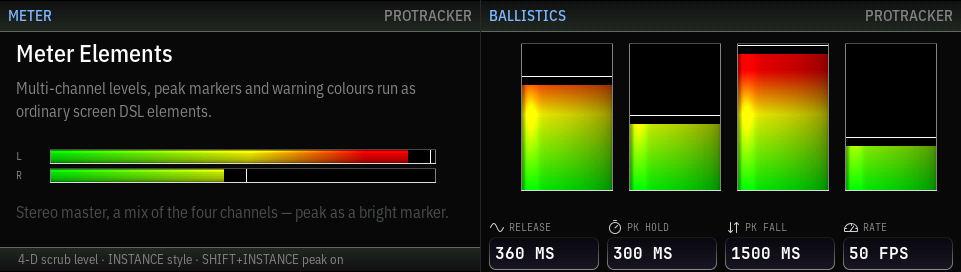
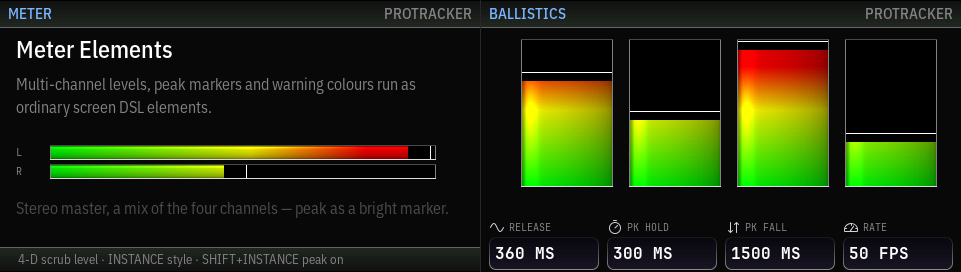
Chrome diet, header round: 28px band with metric text centering
Bench decision 2026-07-23: the header band tightens from 32 to 28px
(captionPixelSize x 2 - 2; caption stays 15px) on the debossed form.
Together with the footer diet the chrome now hands +9px per screen to
content.

The bench caught the text riding +1.5px low at 28 (estimated -2 by eye,
measured -1.5): the static titleHeaderTextY/statusHeaderTextY formulas
only knew the caption size, not the band height — at 32 that coincided
with centered, at 28 it broke. Header text now centers its measured cap
band (proportional captions probe "H", the status line probes the mono
figure band) on the band's mid-height; measured offset after the fix is
-0.5px on both forms, identical to the approved 32px state. The static
formulas remain as the renderer-less fallback.

Geometry probes across layout/DSL/selection tests follow the 4px shift;
full gallery regenerated; 387 tests green.

diff --git a/Sources/KontrolSurfaceKit2/ScreenLayout.swift b/Sources/KontrolSurfaceKit2/ScreenLayout.swift
@@ -60,17 +60,20 @@ public enum MK2ScreenHeader: Sendable {
 
     /// The band height derives from the caption style the header text is set in,
     /// so tuning `MK2ScreenChromeTypography.captionPixelSize` resizes the header.
-    /// A leading subtitle adds a second text line.
+    /// A leading subtitle adds a second text line. History: `× 2 + 2` (32px)
+    /// until 2026-07-23 — the chrome-diet header round tightened the band to
+    /// the MASCHINE-factory-UI proportion; text stays centered because the
+    /// header centers its cap band metrically, not by formula.
     public func height(for typography: MK2ScreenChromeTypography = MK2ScreenChromeTypography()) -> Int {
         switch self {
             case .none:
                 return 0
             case let .title(_, subtitle, alignment):
-                let base = typography.captionPixelSize * 2 + 2
+                let base = typography.captionPixelSize * 2 - 2
                 guard subtitle != nil, alignment == .leading else { return base }
                 return base + typography.captionPixelSize + 2
             case .status:
-                return typography.captionPixelSize * 2 + 2
+                return typography.captionPixelSize * 2 - 2
         }
     }
 }
@@ -324,7 +327,8 @@ public struct MK2RegularScreenChrome: Sendable {
             case .none:
                 return
             case let .title(title, subtitle, subtitleAlignment):
-                let lineY = Self.titleHeaderTextY(for: typography)
+                let lines = (subtitle != nil && subtitleAlignment == .leading) ? 2 : 1
+                let lineY = captionLineY(renderer: renderer, lines: lines) ?? Self.titleHeaderTextY(for: typography)
                 drawHeaderBackdrop(into: &frame)
                 drawCaption(title, into: &frame, renderer: renderer, x: 8, y: lineY, color: colors.accent, maxWidth: 220)
                 guard let subtitle else { return }
@@ -336,8 +340,38 @@ public struct MK2RegularScreenChrome: Sendable {
                 }
             case let .status(items):
                 drawHeaderBackdrop(into: &frame)
-                MK2StatusLine(y: Self.statusHeaderTextY(for: typography), items: items).draw(into: &frame)
+                let statusY = statusLineY(renderer: renderer) ?? Self.statusHeaderTextY(for: typography)
+                MK2StatusLine(y: statusY, items: items).draw(into: &frame)
         }
+    }
+
+    /// Header text centers its measured cap band on the band's mid-height.
+    /// The static formulas below only know the caption size, so any change to
+    /// the band height silently pushed the text off-center — bench-caught at
+    /// the 28px tightening; the same box-vs-ink trap as icons and well
+    /// values. The static forms remain as the renderer-less fallback.
+    private func captionLineY(renderer: FreeTypeTextRenderer?, lines: Int) -> Int? {
+        guard let renderer, let headerRect = layout.headerRect else { return nil }
+        let style = MK2HIG.textStyle(
+            weight: MK2HIG.Fonts.captionWeight,
+            pixelSize: typography.captionPixelSize,
+            color: 0xffff
+        )
+        guard let metrics = try? renderer.metrics(style: style),
+              let cap = try? renderer.inkExtent("H", style: style),
+              cap.height > 0 else { return nil }
+        let blockHeight = (lines - 1) * (typography.captionPixelSize + 2) + cap.height
+        let inkTop = headerRect.y + (headerRect.height - blockHeight) / 2
+        return inkTop - metrics.ascender - cap.top
+    }
+
+    private func statusLineY(renderer: FreeTypeTextRenderer?) -> Int? {
+        guard let renderer, let headerRect = layout.headerRect else { return nil }
+        let font = SurfaceFont.grid
+        guard let figures = try? renderer.inkExtent("0", style: font.measurementStyle),
+              figures.height > 0 else { return nil }
+        let inkTop = headerRect.y + (headerRect.height - figures.height) / 2
+        return inkTop - font.ascent - figures.top
     }
 
     private func drawHeaderBackdrop(into frame: inout MK2PixelFrame) {

diff --git a/Tests/KompleteKontrolTests/ScreenLayoutTests.swift b/Tests/KompleteKontrolTests/ScreenLayoutTests.swift
@@ -12,14 +12,14 @@ struct ScreenLayoutTests {
         #expect(headerless.contentRect == MK2PixelRect(x: 8, y: 8, width: 464, height: 256))
 
         let titled = MK2ScreenLayout.regular(header: .title(title: "T"))
-        #expect(titled.headerRect == MK2PixelRect(x: 0, y: 0, width: 480, height: 32))
-        #expect(titled.contentRect.y == 37)
+        #expect(titled.headerRect == MK2PixelRect(x: 0, y: 0, width: 480, height: 28))
+        #expect(titled.contentRect.y == 33)
     }
 
     @Test("Header and hint footer heights derive from the chrome typography")
     func chromeBandHeightsDeriveFromTypography() {
         let defaults = MK2ScreenLayout.regular(header: .title(title: "T"), footer: .hint("h"))
-        #expect(defaults.headerRect?.height == 32)
+        #expect(defaults.headerRect?.height == 28)
         #expect(defaults.footerRect?.height == 25)
 
         let compact = MK2ScreenLayout.regular(
@@ -27,8 +27,8 @@ struct ScreenLayoutTests {
             footer: .hint("h"),
             typography: MK2ScreenChromeTypography(captionPixelSize: 12, footnotePixelSize: 12)
         )
-        #expect(compact.headerRect?.height == 26)
-        #expect(compact.contentRect.y == 31)
+        #expect(compact.headerRect?.height == 22)
+        #expect(compact.contentRect.y == 27)
         #expect(compact.footerRect?.height == 24)
     }
 
@@ -49,8 +49,8 @@ struct ScreenLayoutTests {
     @Test("Progress bar hugs the header bottom or the top edge")
     func progressBarTopPlacement() {
         let withHeader = MK2ScreenLayout.regular(header: .title(title: "T"), progress: .top)
-        #expect(withHeader.progressRect == MK2PixelRect(x: 0, y: 32, width: 480, height: 2))
-        #expect(withHeader.contentRect.y == 37)
+        #expect(withHeader.progressRect == MK2PixelRect(x: 0, y: 28, width: 480, height: 2))
+        #expect(withHeader.contentRect.y == 33)
 
         let withoutHeader = MK2ScreenLayout.regular(progress: .top)
         #expect(withoutHeader.progressRect == MK2PixelRect(x: 0, y: 0, width: 480, height: 2))
@@ -81,11 +81,11 @@ struct ScreenLayoutTests {
             Int((color >> 11) & 0x1f) + Int((color >> 5) & 0x3f) + Int(color & 0x1f)
         }
 
-        // Header band 0..31 is debossed (2026-07-23): shadow edge at the top,
+        // Header band 0..27 is debossed (2026-07-23): shadow edge at the top,
         // gradient rising toward the lit edge that faces the content.
         #expect(frame[300, 0] == MK2HIG.Chrome.headerBottomLine)
-        #expect(luminance(frame[300, 2]) < luminance(frame[300, 29]))
-        #expect(frame[300, 31] == MK2HIG.Chrome.headerTopLine)
+        #expect(luminance(frame[300, 2]) < luminance(frame[300, 25]))
+        #expect(frame[300, 27] == MK2HIG.Chrome.headerTopLine)
         // Footer band 215..271 gets the same treatment.
         #expect(frame[300, 215] == MK2HIG.Chrome.headerTopLine)
         #expect(luminance(frame[300, 218]) > luminance(frame[300, 268]))
@@ -100,7 +100,7 @@ struct ScreenLayoutTests {
         ) {}.build(renderer: try? FreeTypeTextRenderer())
 
         let frame = result.screen.frame
-        let barRect = MK2PixelRect(x: 0, y: 32, width: 480, height: 2)
+        let barRect = MK2PixelRect(x: 0, y: 28, width: 480, height: 2)
         var fillCount = 0
         var trackCount = 0
         var distinctFillColors = Set<UInt16>()
@@ -119,7 +119,7 @@ struct ScreenLayoutTests {
         #expect(trackCount == 240 * 2)
         // The fill ramps from fillStart to fillEnd instead of being one flat color.
         #expect(distinctFillColors.count > 8)
-        #expect(frame[0, 32] == MK2HIG.Chrome.progressFillStart)
-        #expect(frame[239, 32] == MK2HIG.Chrome.progressFillEnd)
+        #expect(frame[0, 28] == MK2HIG.Chrome.progressFillStart)
+        #expect(frame[239, 28] == MK2HIG.Chrome.progressFillEnd)
     }
 }

diff --git a/Tests/KompleteKontrolTests/SelectionViewTests.swift b/Tests/KompleteKontrolTests/SelectionViewTests.swift
@@ -119,12 +119,12 @@ struct SelectionViewTests {
         let filtered = MK2SelectionLayout.contentRect(hasFilters: true)
         let iconCell = MK2SelectionCellSize(width: 58, height: 58)
 
-        #expect(regular.headerRect == MK2PixelRect(x: 0, y: 0, width: 480, height: 32))
+        #expect(regular.headerRect == MK2PixelRect(x: 0, y: 0, width: 480, height: 28))
         #expect(regular.contentRect == full)
         #expect(filteredScreen.contentRect == filtered)
         #expect(filteredScreen.footerRect == MK2PixelRect(x: 0, y: 215, width: 480, height: 57))
-        #expect(full == MK2PixelRect(x: 8, y: 37, width: 464, height: 227))
-        #expect(filtered == MK2PixelRect(x: 8, y: 37, width: 464, height: 171))
+        #expect(full == MK2PixelRect(x: 8, y: 33, width: 464, height: 231))
+        #expect(filtered == MK2PixelRect(x: 8, y: 33, width: 464, height: 175))
         #expect(MK2SelectionLayout.gridColumnCount(for: iconCell) == 8)
         #expect(MK2SelectionLayout.gridRowStep(for: iconCell) == 8)
         #expect(MK2SelectionGrid.columnCount(for: iconCell) == MK2SelectionLayout.gridColumnCount(for: iconCell))
@@ -143,9 +143,9 @@ struct SelectionViewTests {
         #expect(frame.countNonBackgroundPixels(in: MK2PixelRect(x: 8, y: 6, width: 80, height: 14)) > 10)
         #expect(frame.countNonBackgroundPixels(in: MK2PixelRect(x: 420, y: 6, width: 52, height: 14)) > 10)
         #expect(frame.countPixels(in: MK2PixelRect(x: 0, y: 0, width: 480, height: 1), matching: MK2HIG.Chrome.headerBottomLine) == 480)
-        #expect(frame.countNonBackgroundPixels(in: MK2PixelRect(x: 0, y: 1, width: 480, height: 30)) > 13_000)
-        #expect(frame[300, 2] != frame[300, 29])
-        #expect(frame.countPixels(in: MK2PixelRect(x: 0, y: 31, width: 480, height: 1), matching: MK2HIG.Chrome.headerTopLine) == 480)
+        #expect(frame.countNonBackgroundPixels(in: MK2PixelRect(x: 0, y: 1, width: 480, height: 26)) > 11_000)
+        #expect(frame[300, 2] != frame[300, 25])
+        #expect(frame.countPixels(in: MK2PixelRect(x: 0, y: 27, width: 480, height: 1), matching: MK2HIG.Chrome.headerTopLine) == 480)
         #expect(frame.countNonBackgroundPixels(in: MK2PixelRect(x: 0, y: 211, width: 480, height: 60)) > 25_000)
         #expect(frame.countPixels(in: MK2PixelRect(x: 0, y: 215, width: 480, height: 1), matching: MK2HIG.Chrome.headerTopLine) == 480)
     }
@@ -271,7 +271,7 @@ struct SelectionViewTests {
         // band is covered when it is not background.
         #expect(
             frame.countPixels(
-                in: MK2PixelRect(x: 32, y: 80, width: 416, height: 1),
+                in: MK2PixelRect(x: 32, y: 76, width: 416, height: 1),
                 where: { $0 != colors.background }
             ) > 300
         )

diff --git a/Tests/KompleteKontrolTests/ScreenDSLTests.swift b/Tests/KompleteKontrolTests/ScreenDSLTests.swift
@@ -85,10 +85,10 @@ struct ScreenDSLTests {
             ])
         }.build(renderer: renderer)
 
-        #expect(result.screen.frame.countPixels(in: MK2PixelRect(x: 16, y: 90, width: 148, height: 44), notMatching: MK2HIG.Chrome.background) > 20)
-        #expect(result.screen.frame[16, 164] != MK2HIG.Chrome.background)
-        #expect(result.screen.frame.countPixels(in: MK2PixelRect(x: 117, y: 165, width: 60, height: 12), matching: MK2HIG.Chrome.accent) > 10)
-        #expect(result.screen.frame.countPixels(in: MK2PixelRect(x: 252, y: 196, width: 90, height: 56), notMatching: MK2HIG.Chrome.background) > 10)
+        #expect(result.screen.frame.countPixels(in: MK2PixelRect(x: 16, y: 86, width: 148, height: 44), notMatching: MK2HIG.Chrome.background) > 20)
+        #expect(result.screen.frame[16, 160] != MK2HIG.Chrome.background)
+        #expect(result.screen.frame.countPixels(in: MK2PixelRect(x: 117, y: 161, width: 60, height: 12), matching: MK2HIG.Chrome.accent) > 10)
+        #expect(result.screen.frame.countPixels(in: MK2PixelRect(x: 252, y: 192, width: 90, height: 56), notMatching: MK2HIG.Chrome.background) > 10)
     }
 
     @Test("Wrapped content text honors centered alignment")
@@ -341,8 +341,8 @@ struct ScreenDSLTests {
 
         #expect(box.touched)
         #expect(box.lastValue == 5)
-        #expect(result.screen.frame.countPixels(in: MK2PixelRect(x: 8, y: 76, width: 440, height: 40), notMatching: MK2HIG.Chrome.background) > 80)
-        #expect(result.screen.frame.countPixels(in: MK2PixelRect(x: 420, y: 148, width: 32, height: 10), matching: MK2HIG.Chrome.accent) > 0)
+        #expect(result.screen.frame.countPixels(in: MK2PixelRect(x: 8, y: 72, width: 440, height: 40), notMatching: MK2HIG.Chrome.background) > 80)
+        #expect(result.screen.frame.countPixels(in: MK2PixelRect(x: 420, y: 144, width: 32, height: 10), matching: MK2HIG.Chrome.accent) > 0)
     }
 
     @Test("Meter element draws levels and peak markers")

diff --git a/Docs/HIG.md b/Docs/HIG.md
@@ -57,13 +57,13 @@ Layout tokens (`MK2ScreenLayout`):
 | --- | --- | --- |
 | `bounds` | 480×272 | one display |
 | `margin` / `contentInset` | 8 | outer margin, content inset |
-| header height (`.title`, `.status`) | 32 | `captionPixelSize × 2 + 2`; leading subtitle adds `captionPixelSize + 2` |
+| header height (`.title`, `.status`) | 28 | `captionPixelSize × 2 − 2` (32 until the 2026-07-23 header diet); leading subtitle adds `captionPixelSize + 2`. Header text centers its cap band metrically on the band — never by formula |
 | hint footer height | 25 | `footnotePixelSize + 12` |
 | `encoderFooterHeight` | 57 | derived: slot 33 + bottom inset 2 + label 13 + gap 3 + 6 — never a literal |
 | `encoderSlotXs` | 8, 126, 244, 362 | four bottom-flush slots per display |
 | `encoderSlotWidth` × `Height` | 110×33 | value well size (38 until the 2026-07-23 chrome diet; filter cells share the slot height) |
 | `MK2ScreenProgressBar.height` | 2 | top or bottom placement |
-| content rect (title + hint) | 8,37 → 464×203 | `contentRect` for the regular layout |
+| content rect (title + hint) | 8,33 → 464×207 | `contentRect` for the regular layout |
 
 Encoder cells are **bottom-flush** (E5–E8 under the right display, E1–E4
 top-flush channel encoders in the tracker scene); function-key labels are
@@ -200,7 +200,7 @@ are bench-tunable; record changes in `MK2HIG` comments.
 ## 7. Chrome families
 
 Headers: `.title` (proportional title, trailing or leading subtitle) and
-`.status` (fixed-pitch status items) share the same 32px **debossed** band
+`.status` (fixed-pitch status items) share the same 28px **debossed** band
 (inverted light curve, lit edge toward the content — bench decision
 2026-07-23; raised until then). Full-screen surfaces (tracker, pattern,
 editorial) use the **flat** variants: no band, a hairline rule only.
@@ -343,7 +343,7 @@ so lines continue optically across the physical seam.
 | Object-identity colors (NI-inspired, 2026-07-23) | **proposed** — a second, orthogonal color axis: user/group/instrument colors carried by *content* (pattern channels, arranger rows, tiles, selection tint in content contexts), as on the MASCHINE MK3 factory UI. Does not touch the semantic accents; lives inside the 15% structuring share of the 80/15/5 rule. Needs a Paulinche-side data model (per-instrument color) first |
 | Chrome diet, footer (NI-inspired) | **adopted 2026-07-23** — well 38→33, footer derives 62→57, filter cells unified onto the slot height; +5 content rows per screen with the deboss intact. Prerequisite was figure-band value centering, so the slimmer well stays optically centered |
 | Debossed header band | **adopted 2026-07-23** — header light curve inverted (footer stays raised), both lit edges frame the content plane. Symmetric inversion of both bands was tried and rejected on the bench |
-| Chrome diet, header | **open** — the MK3 chip bar measures ~26px vs our 32px band; tightening round pending |
+| Chrome diet, header | **adopted 2026-07-23** — band 32→28 on the debossed form; prerequisite was metric cap-band centering of the header text (the static formula ignored band height and rode +1.5px low at 28, bench-caught). Total chrome diet: +9px content per screen |
 
 Bench rounds happen per `hardware-feel` practice: one variable at a time,
 constants annotated with what was tried and why the current value won.
